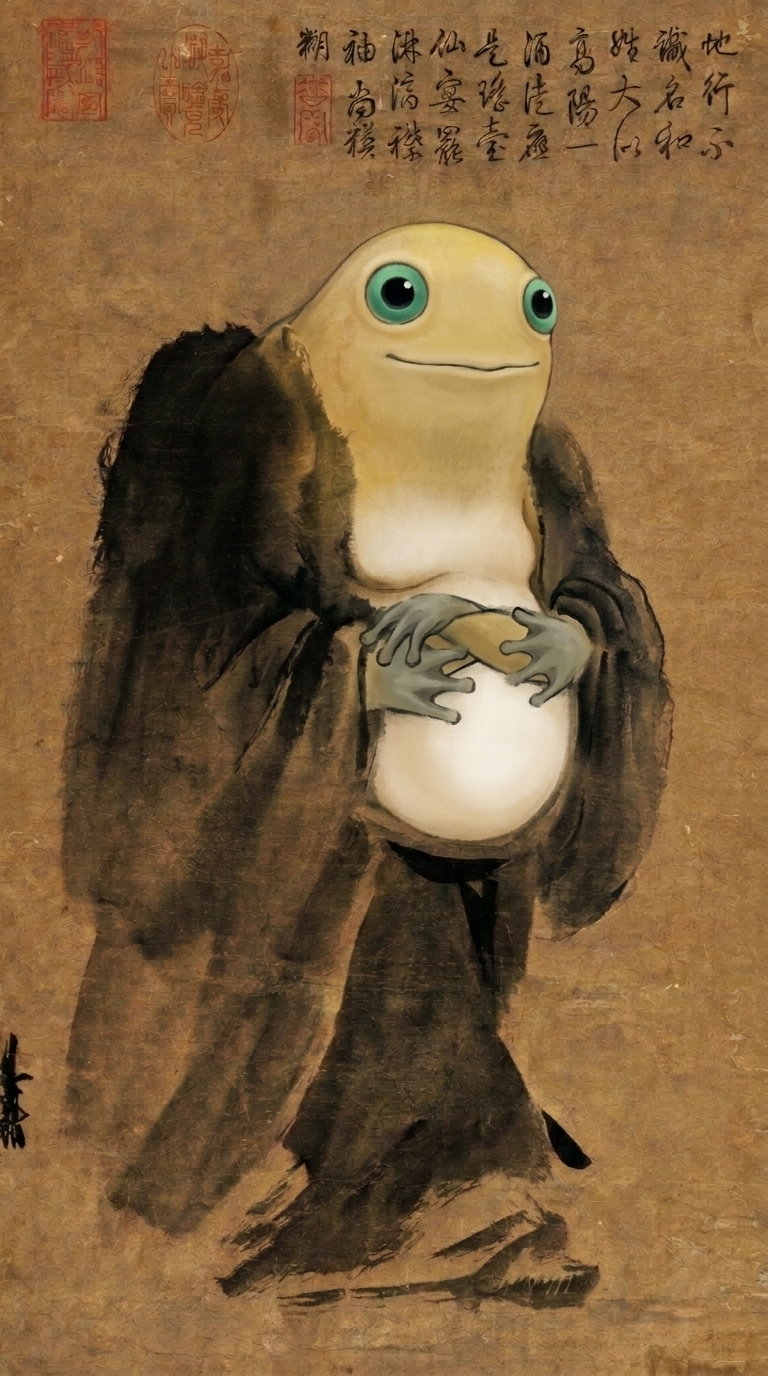
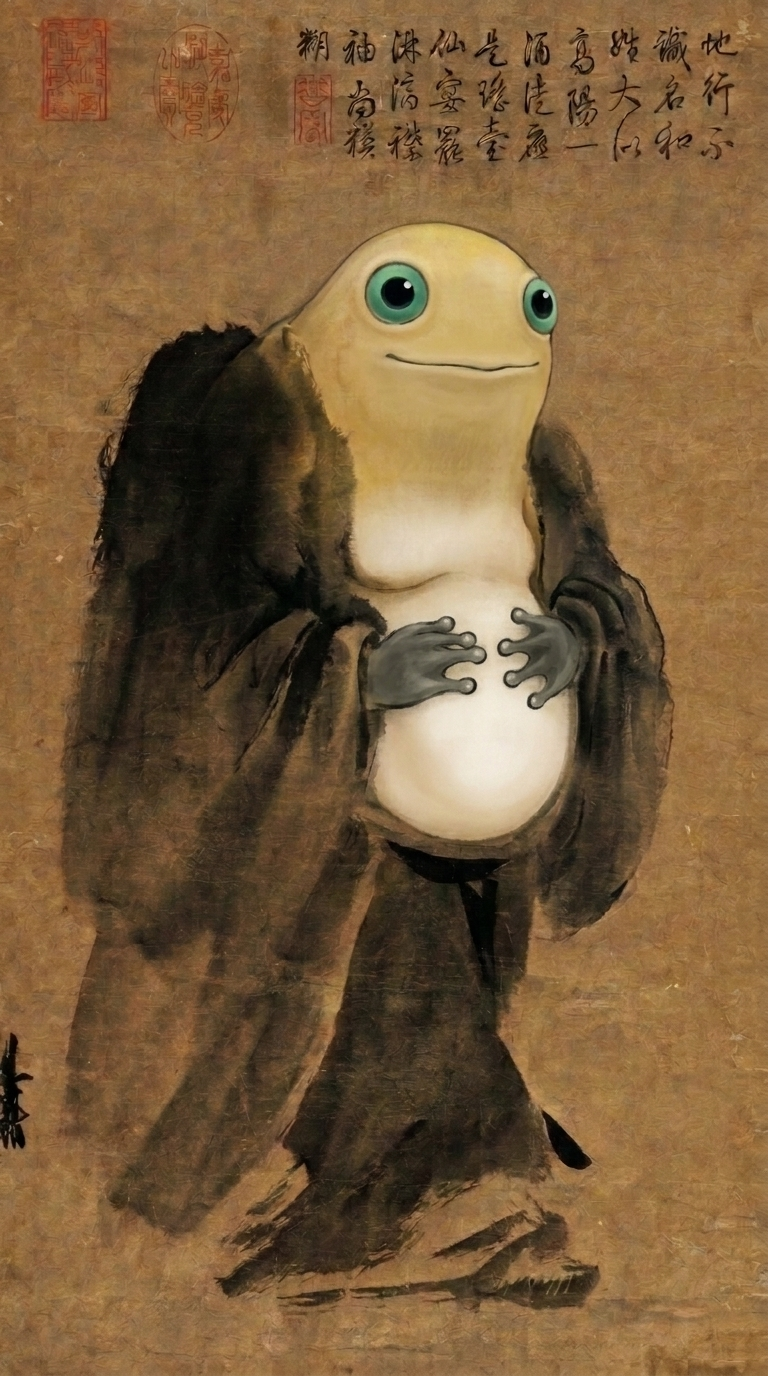
fix: 修复第一张《泼墨蛙仙图》静谧态手部重叠瑕疵

Changed region(s): [[0.4688, 0.4062, 0.7812, 0.5312]]

diff --git a/scripts/paintings-data.js b/scripts/paintings-data.js
@@ -14,7 +14,7 @@ window.INK_PAINTINGS = [
     dimensions: "纸本水墨 · 48.7 × 27.7 厘米",
     memeName: "捧腹大笑系列（dot-naiwa-0325）",
     memeUrl: "https://naiwahub.com/zh/memes/dot-naiwa-0325",
-    idleSrc: "assets/paintings/01_pomo_waxian.png",
+    idleSrc: "assets/paintings/01_pomo_waxian.png?v=5",
     activeSrc: "assets/paintings/01_pomo_waxian_active.png",
     originalSrc: "assets/originals/01_original.jpg",
     // 画幅展示尺寸与横纵比（严格对齐 768x1376 原图比例，零拉伸失真）

diff --git a/index.html b/index.html
@@ -151,7 +151,7 @@
     </div>
   </div>
 
-  <script src="scripts/paintings-data.js?v=20261118_8"></script>
+  <script src="scripts/paintings-data.js?v=20261118_9"></script>
   <script src="scripts/ink-audio.js?v=20261118_6"></script>
   <script src="scripts/ink-cursor.js?v=20261118_6"></script>
   <script src="scripts/portrait-engine.js?v=20261118_6"></script>
